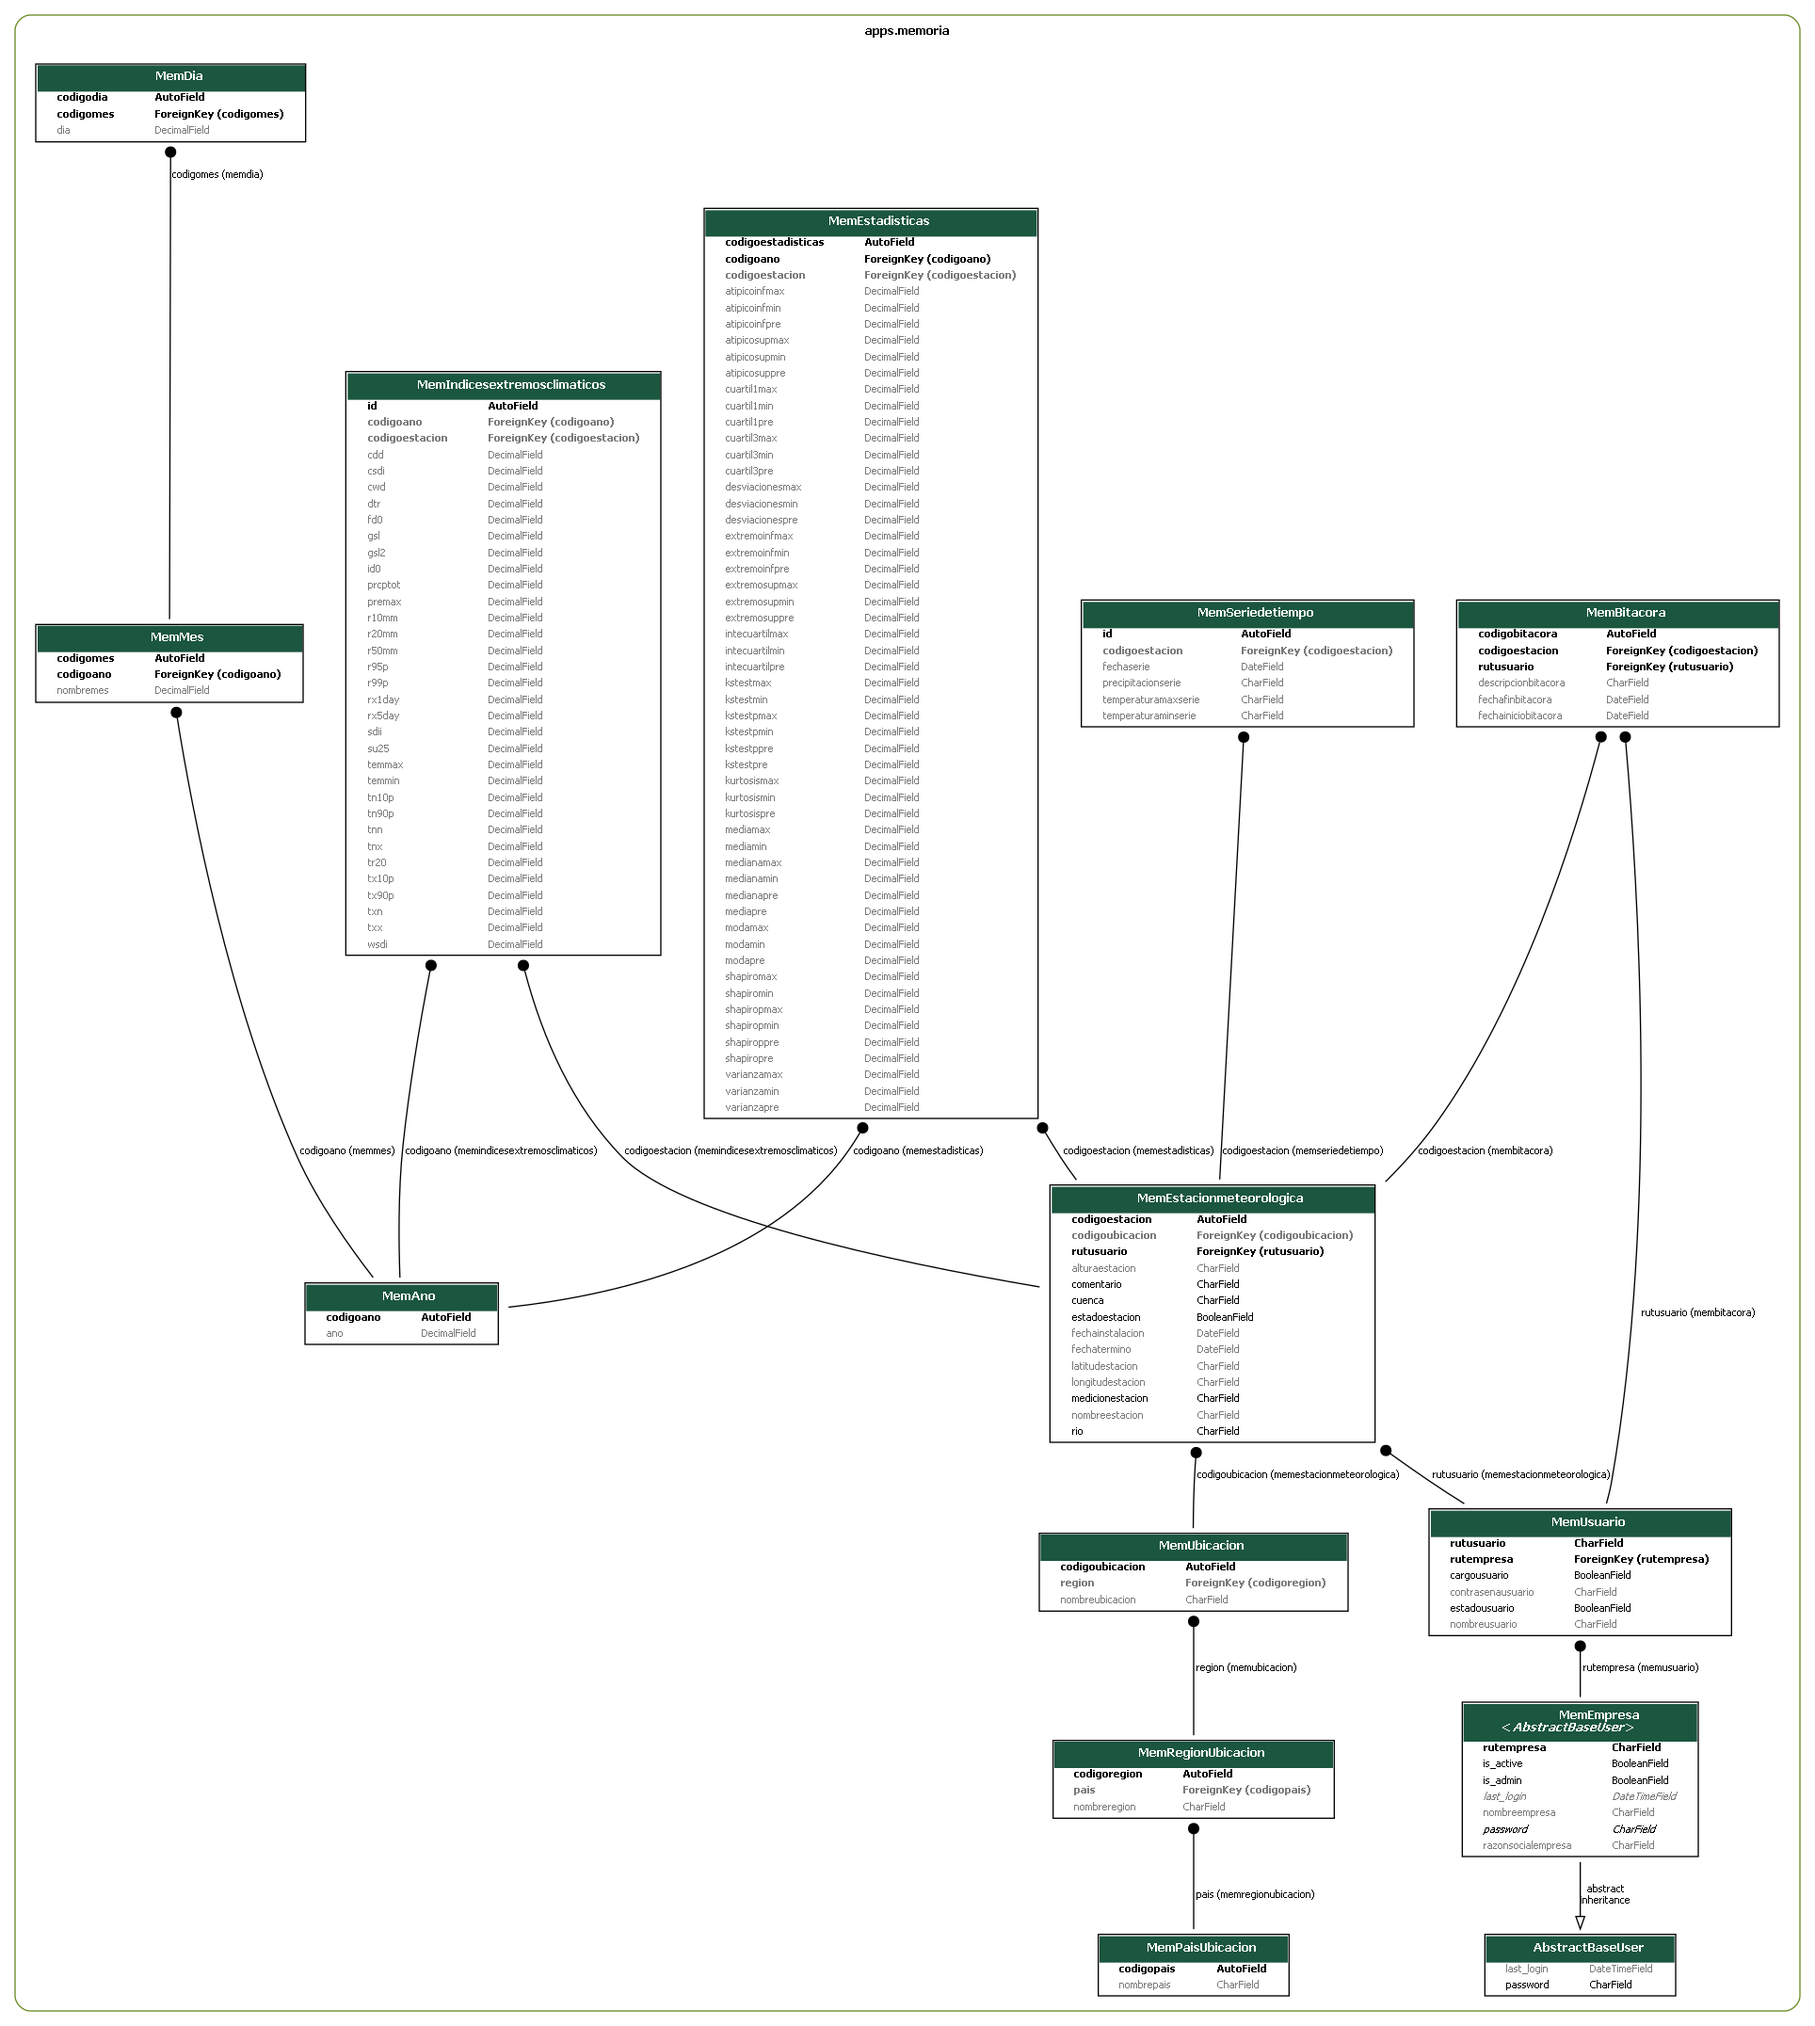
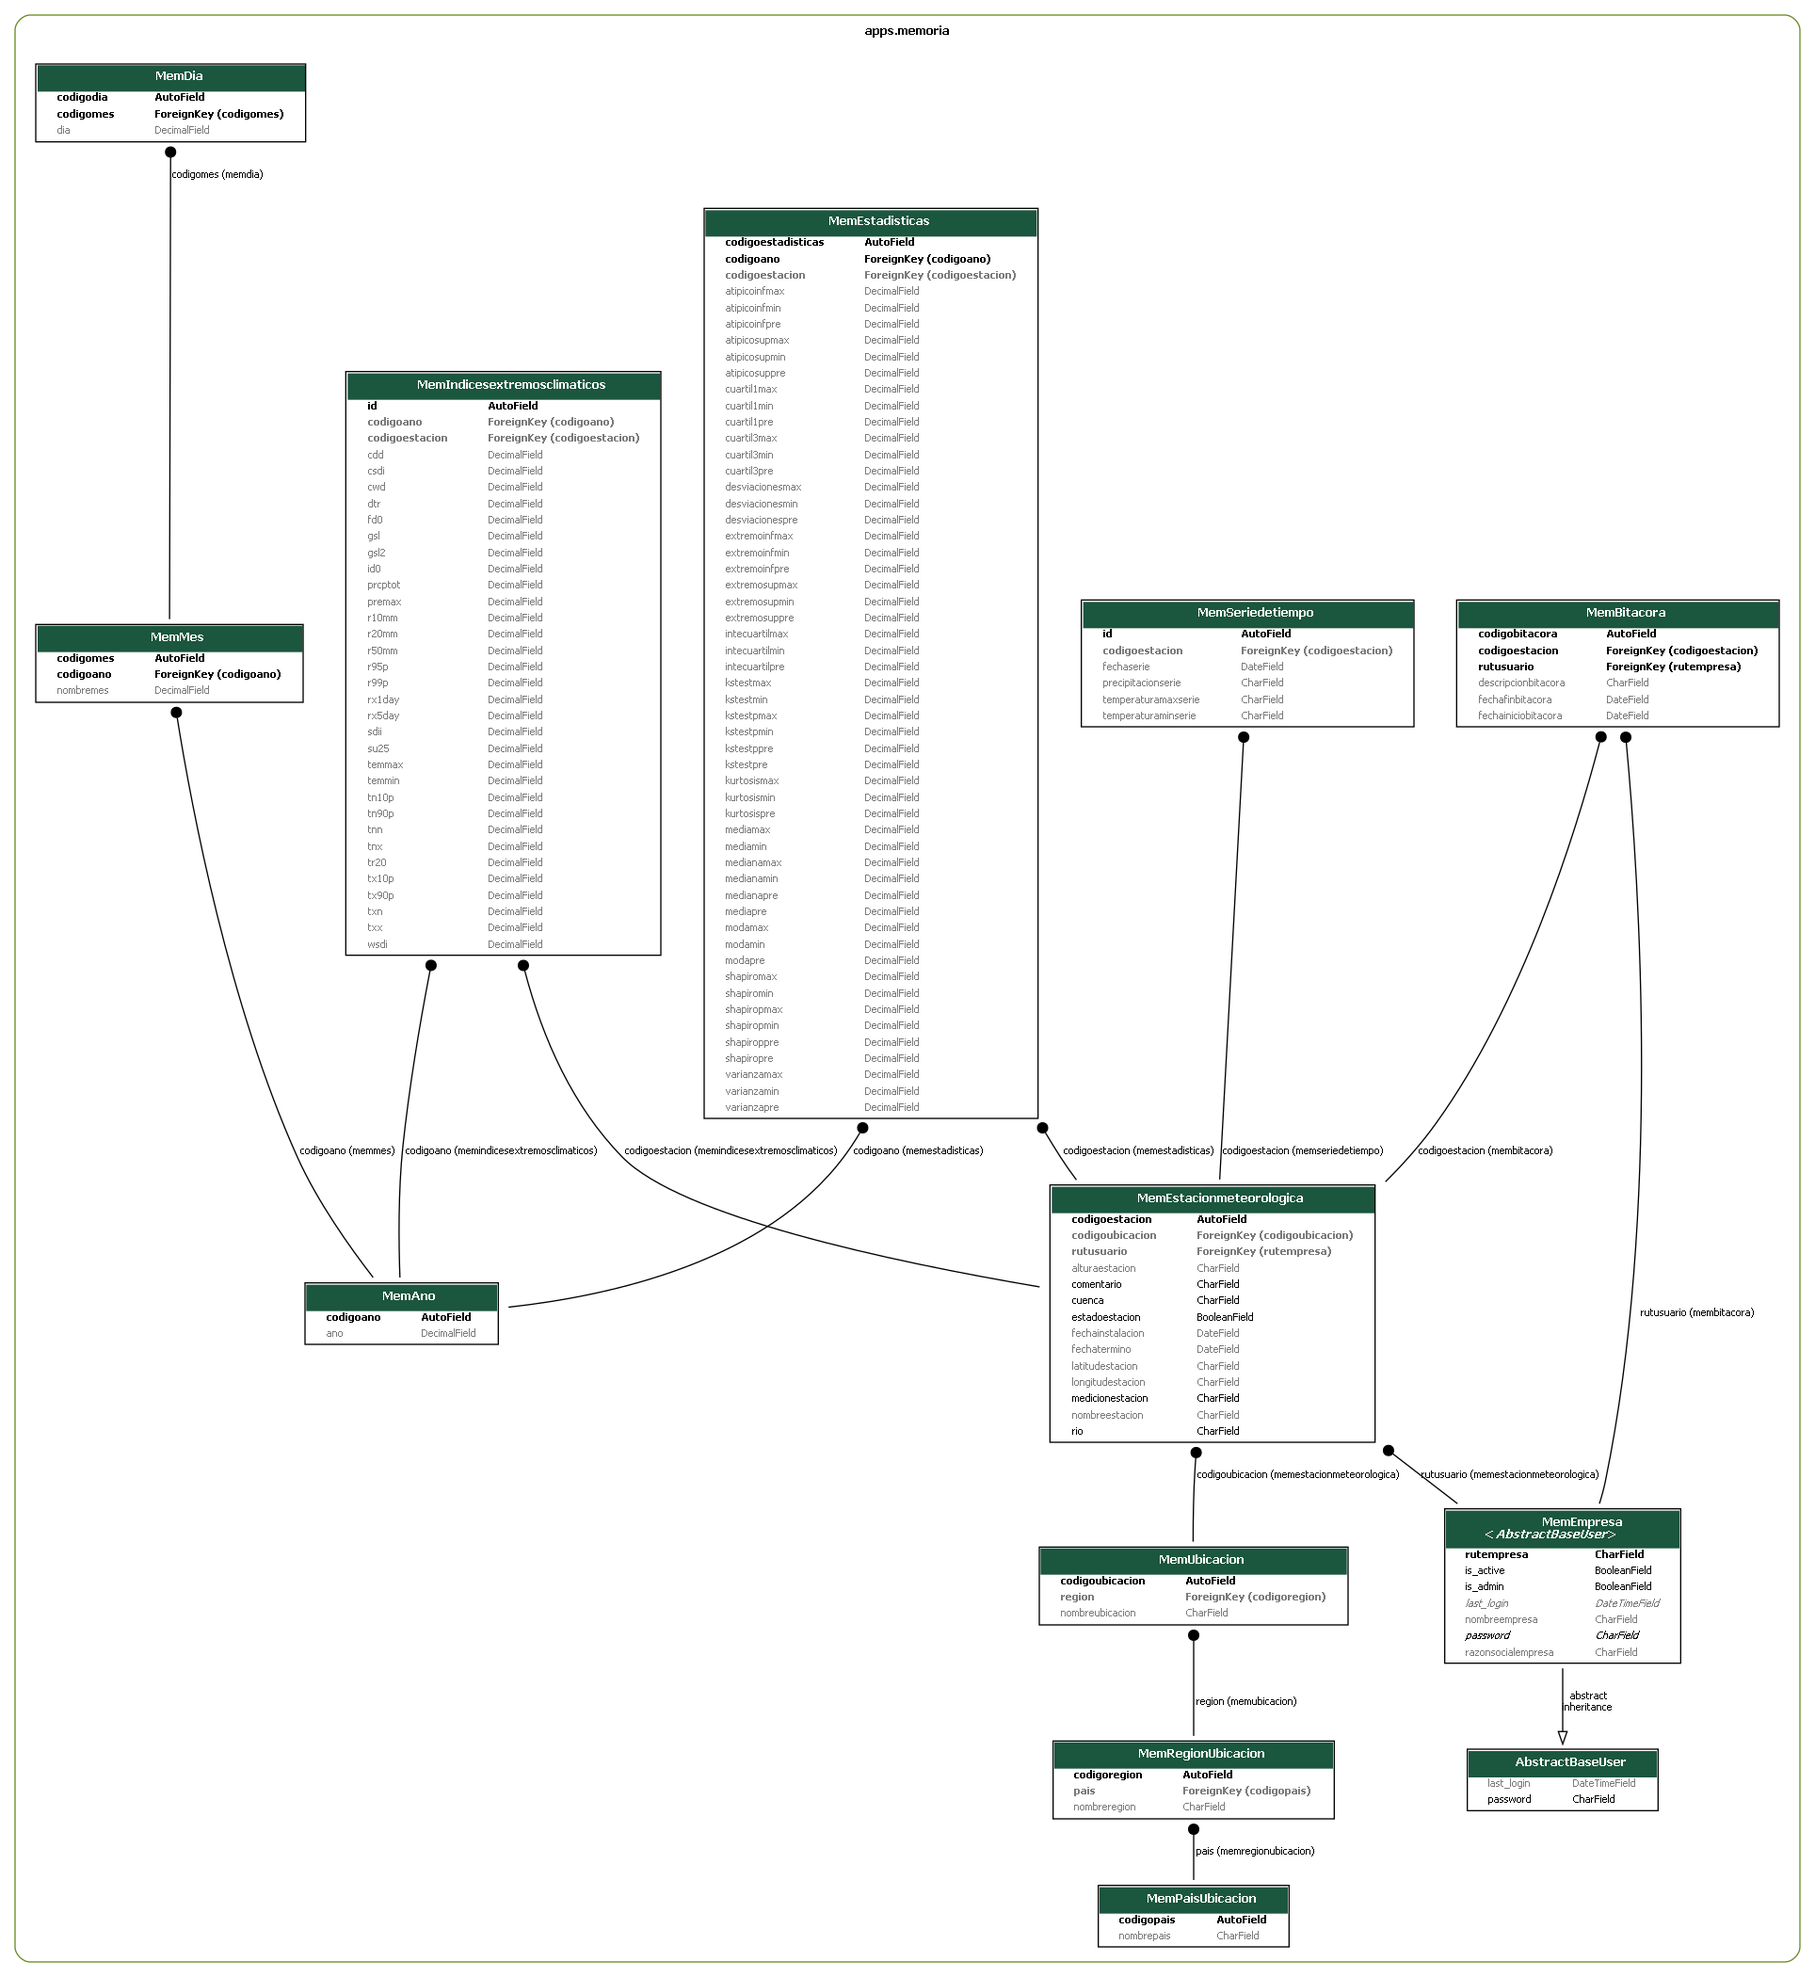
eliminacion de app de usuario

diff --git a/template/memoria/entidad/index.html b/template/memoria/entidad/index.html
@@ -1,7 +1,7 @@
 {% extends "memoria/base.html" %}
 {% load staticfiles %}
 {% block content %}
-<h1>Entidades</h1>
+<h1>Usuarios</h1>
 {% if empresas %}
 <div class="table-responsive">
     <table class="table table-striped table-bordered dataTable no-footer" id="tabla">
@@ -29,9 +29,9 @@
     </table>
 </div>
 {% else %}
-<h1>no existen empresas registradas</h1>
+<h1>no existen usuarios registrados</h1>
 {% endif %}
-<input type="button" name="add" value="Agregar Entidad" onclick="fn_abreForm()" class="btn btn-primary">
+<input type="button" name="add" value="Agregar Usuario" onclick="fn_abreForm()" class="btn btn-primary">
 <div id="dataModal" class="modal fade">
     <div class="modal-dialog">
         <div class="modal-content">

diff --git a/template/memoria/base.html b/template/memoria/base.html
@@ -68,7 +68,6 @@
                                 <ul class="nav side-menu">
                                     {% if user.is_admin %}
                                     <li><a href="{% url 'memoria:entidad' %}"><i class="fa fa-user"></i>Usuarios</a></li>
-                                    <!--<li><a href="{% url 'memoria:usuario' %}"><i class="fa fa-user"></i>Usuarios</a></li>-->
                                     <li><a href="{% url 'ubicacion:ubicacion' %}"><i class="fa fa-map"></i>Ubicaciones</a></li>
                                     {% endif %}
                                     <li><a href="{% url 'estacion:estacion' %}"><i class="fa fa-file"></i>Estaciones</a></li>

diff --git a/template/memoria/base2.html b/template/memoria/base2.html
@@ -57,8 +57,6 @@
                                     {% if user.is_admin %}
                                     <li><a href="{% url 'memoria:entidad' %}"><i
                                                 class="fa fa-user"></i>Usuarios</a></li>
-                                    <!--<li><a href="{% url 'memoria:usuario' %}"><i class="fa fa-user"></i>Usuarios</a>
-                                    </li>-->
                                     <li><a href="{% url 'ubicacion:ubicacion' %}"><i
                                                 class="fa fa-map"></i>Ubicaciones</a></li>
                                     {% endif %}

diff --git a/template/memoria/entidad/modal.html b/template/memoria/entidad/modal.html
@@ -6,7 +6,7 @@
 <form method="POST" action="{% url 'memoria:crearEntidad'%}">
 {% endif %}
     <div class="modal-header" id="div-results">
-        <h4 class="modal-title">Entidad</h4>
+        <h4 class="modal-title">Usuario</h4>
         <button type="button" class="close" data-dismiss="modal" aria-label="Close"><span
                 aria-hidden="true">&times;</span></button>
     </div>

diff --git a/apps/memoria/views.py b/apps/memoria/views.py
@@ -3,8 +3,8 @@ from django.views.generic.edit import CreateView, View, FormView
 from django.shortcuts import render, redirect
 from django.http import HttpResponseRedirect
 from django.core.exceptions import ObjectDoesNotExist
-from .forms import MemEmpresaForm, MemUsurioForm, LoginForm
-from .models import MemEmpresa, MemUsuario
+from .forms import MemEmpresaForm, LoginForm #, MemUsurioForm
+from .models import MemEmpresa#, MemUsuario
 from django.template import RequestContext
 from django.shortcuts import render_to_response
 from django.contrib.auth import authenticate, logout
@@ -16,9 +16,9 @@ def entidad(request):
     empresas = MemEmpresa.objects.filter(is_active = True)
     return render(request, 'memoria/entidad/index.html', {'empresas':empresas})
 
-def usuario(request):
-    empresas = MemUsuario.objects.filter(estadousuario = True)
-    return render(request, 'memoria/usuario/index.html', {'empresas':empresas})
+# def usuario(request):
+#     empresas = MemUsuario.objects.filter(estadousuario = True)
+#     return render(request, 'memoria/usuario/index.html', {'empresas':empresas})
 
 def crearEntidad(request):
     if request.method == 'POST':
@@ -30,15 +30,15 @@ def crearEntidad(request):
         empresaForm = MemEmpresaForm()
         return render (request, 'memoria/entidad/modal.html', {'empresaForm':empresaForm})
 
-def crearUsuario(request):
-    if request.method == 'POST':
-        empresaForm = MemUsurioForm(request.POST)
-        if empresaForm.is_valid():
-            empresaForm.save()
-            return redirect('memoria:usuario')
-    else:
-        empresaForm = MemUsurioForm()
-        return render (request, 'memoria/usuario/modal.html', {'empresaForm':empresaForm})
+# def crearUsuario(request):
+#     if request.method == 'POST':
+#         empresaForm = MemUsurioForm(request.POST)
+#         if empresaForm.is_valid():
+#             empresaForm.save()
+#             return redirect('memoria:usuario')
+#     else:
+#         empresaForm = MemUsurioForm()
+#         return render (request, 'memoria/usuario/modal.html', {'empresaForm':empresaForm})
 
 def editarEntidad(request, v_rut):
     empresaForm = None
@@ -57,22 +57,22 @@ def editarEntidad(request, v_rut):
         error = e
     return render(request, 'memoria/entidad/modal.html', {'empresaForm':empresaForm, 'empresa':empresa, 'error':error })
 
-def editarUsuario(request, v_rut):
-    empresaForm = None
-    empresa = None
-    error = None
-    try:
-        empresa = MemUsuario.objects.get(rutusuario = v_rut)
-        if request.method == 'GET':
-            empresaForm = MemUsurioForm(instance = empresa)
-        else:
-            empresaForm = MemUsurioForm(request.POST, instance = empresa)
-        if empresaForm.is_valid():
-            empresaForm.save()
-            return redirect('memoria:usuario')
-    except ObjectDoesNotExist as e:
-        error = e
-    return render(request, 'memoria/usuario/modal.html', {'empresaForm':empresaForm, 'empresa':empresa, 'error':error })
+# def editarUsuario(request, v_rut):
+#     empresaForm = None
+#     empresa = None
+#     error = None
+#     try:
+#         empresa = MemUsuario.objects.get(rutusuario = v_rut)
+#         if request.method == 'GET':
+#             empresaForm = MemUsurioForm(instance = empresa)
+#         else:
+#             empresaForm = MemUsurioForm(request.POST, instance = empresa)
+#         if empresaForm.is_valid():
+#             empresaForm.save()
+#             return redirect('memoria:usuario')
+#     except ObjectDoesNotExist as e:
+#         error = e
+#     return render(request, 'memoria/usuario/modal.html', {'empresaForm':empresaForm, 'empresa':empresa, 'error':error })
 
 def eliminarEntidad(request, v_rut):
     empresa = MemEmpresa.objects.get(rutempresa = v_rut)

diff --git a/apps/memoria/urls.py b/apps/memoria/urls.py
@@ -1,15 +1,15 @@
 from django.urls import path
 from django.contrib.auth.decorators import login_required
-from .views import crearEntidad, editarEntidad, eliminarEntidad, usuario, crearUsuario, editarUsuario, entidad, logoutUsuario
+from .views import crearEntidad, editarEntidad, eliminarEntidad, entidad, logoutUsuario #, usuario, crearUsuario, editarUsuario
 from django.conf import settings
 from django.conf.urls.static import static
 
 urlpatterns = [
     path('entidad', login_required(entidad), name = 'entidad'),
-    path('usuario', login_required(usuario), name = 'usuario'),
+#    path('usuario', login_required(usuario), name = 'usuario'),
     path('crearEntidad/', crearEntidad, name = 'crearEntidad'),
-    path('crearUsuario/', login_required(crearUsuario), name = 'crearUsuario'),
+    #path('crearUsuario/', login_required(crearUsuario), name = 'crearUsuario'),
     path('editarEntidad/<slug:v_rut>', login_required(editarEntidad), name = 'editarEntidad'),
-    path('editarUsuario/<slug:v_rut>', login_required(editarUsuario), name = 'editarUsuario'),
+    #path('editarUsuario/<slug:v_rut>', login_required(editarUsuario), name = 'editarUsuario'),
     path('eliminarEntidad/<slug:v_rut>', login_required(eliminarEntidad), name = 'eliminarEntidad'),
 ] + static(settings.STATIC_URL, document_root=settings.STATIC_ROOT)

diff --git a/apps/memoria/forms.py b/apps/memoria/forms.py
@@ -1,6 +1,6 @@
 from django import forms
 from django.contrib.auth.forms import UserCreationForm, UserChangeForm
-from .models import MemEmpresa, MemUsuario
+from .models import MemEmpresa #, MemUsuario
 
 class MemEmpresaForm(UserCreationForm):
     class Meta(UserCreationForm):
@@ -14,17 +14,17 @@ class MemEmpresaForm(UserCreationForm):
             'is_admin': 'Admin',
         }
 
-class MemUsurioForm(forms.ModelForm):
-    class Meta:
-        model = MemUsuario
-        fields = ['rutusuario', 'rutempresa','nombreusuario', 'cargousuario', 'contrasenausuario']
-        labels={
-            'rutusuario':'Rut',
-            'rutempresa':'Empresa',
-            'nombreusuario':'Nombre',
-            'cargousuario':'Admin',
-            'contrasenausuario':'Contraseña',
-        }
+# class MemUsurioForm(forms.ModelForm):
+#     class Meta:
+#         model = MemUsuario
+#         fields = ['rutusuario', 'rutempresa','nombreusuario', 'cargousuario', 'contrasenausuario']
+#         labels={
+#             'rutusuario':'Rut',
+#             'rutempresa':'Empresa',
+#             'nombreusuario':'Nombre',
+#             'cargousuario':'Admin',
+#             'contrasenausuario':'Contraseña',
+#         }
 
 class LoginForm(forms.Form):
     Rut = forms.CharField()

diff --git a/apps/memoria/models.py b/apps/memoria/models.py
@@ -290,14 +290,14 @@ class MemUbicacion(models.Model):
         db_table = 'mem_ubicacion'
 
 
-class MemUsuario(models.Model):
-    rutusuario = models.CharField(primary_key=True, max_length=13)
-    rutempresa = models.ForeignKey(MemEmpresa, models.DO_NOTHING, db_column='rutempresa')
-    nombreusuario = models.CharField(max_length=20, blank=True, null=True)
-    cargousuario = models.BooleanField('CargoUsuario', default = True )
-    contrasenausuario = models.CharField(max_length=20, blank=True, null=True)
-    estadousuario = models.BooleanField('EstadoUsuario', default = True )
+# class MemUsuario(models.Model):
+#     rutusuario = models.CharField(primary_key=True, max_length=13)
+#     rutempresa = models.ForeignKey(MemEmpresa, models.DO_NOTHING, db_column='rutempresa')
+#     nombreusuario = models.CharField(max_length=20, blank=True, null=True)
+#     cargousuario = models.BooleanField('CargoUsuario', default = True )
+#     contrasenausuario = models.CharField(max_length=20, blank=True, null=True)
+#     estadousuario = models.BooleanField('EstadoUsuario', default = True )
 
-    class Meta:
-        managed = True
-        db_table = 'mem_usuario'
+#     class Meta:
+#         managed = True
+#         db_table = 'mem_usuario'

diff --git a/apps/estacion/views.py b/apps/estacion/views.py
@@ -15,14 +15,15 @@ from scipy import stats
 # Create your views here.
 
 def estacion(request):
-    estaciones = MemEstacionmeteorologica.objects.filter(estadoestacion = True).select_related('codigoubicacion')
+    estaciones = MemEstacionmeteorologica.objects.filter(
+        estadoestacion = True, rutusuario=request.user).select_related('codigoubicacion')
     return render(request, 'memoria/estacion/index.html', {'estaciones':estaciones})
 
 def estacionJson(request):
     json = []
     estaciones = MemEstacionmeteorologica.objects.filter(estadoestacion = True).select_related('rutusuario')
     for x in estaciones:
-        json.append({'codigo': x.codigoestacion, 'nombre' : x.nombreestacion, 'propietario': x.rutusuario.nombreusuario, 'latitud': x.latitudestacion,
+        json.append({'codigo': x.codigoestacion, 'nombre' : x.nombreestacion, 'propietario': x.rutusuario.nombreempresa, 'latitud': x.latitudestacion,
         'longitud': x.longitudestacion})
 
     return JsonResponse({'estacionesJson': json})

diff --git a/apps/memoria/migrations/0007_delete_memusuario.py b/apps/memoria/migrations/0007_delete_memusuario.py
@@ -1,0 +1,16 @@
+# Generated by Django 2.2.2 on 2021-07-04 16:32
+
+from django.db import migrations
+
+
+class Migration(migrations.Migration):
+
+    dependencies = [
+        ('memoria', '0006_auto_20210703_2342'),
+    ]
+
+    operations = [
+        migrations.DeleteModel(
+            name='MemUsuario',
+        ),
+    ]

diff --git a/memoria/settings.py b/memoria/settings.py
@@ -40,7 +40,7 @@ INSTALLED_APPS = [
     'django_extensions',
     'apps.memoria',
     'crispy_forms',
-    'apps.usuario',
+    #'apps.usuario',
     'apps.estacion',
     'apps.ubicacion',
     'apps.bitacora',
